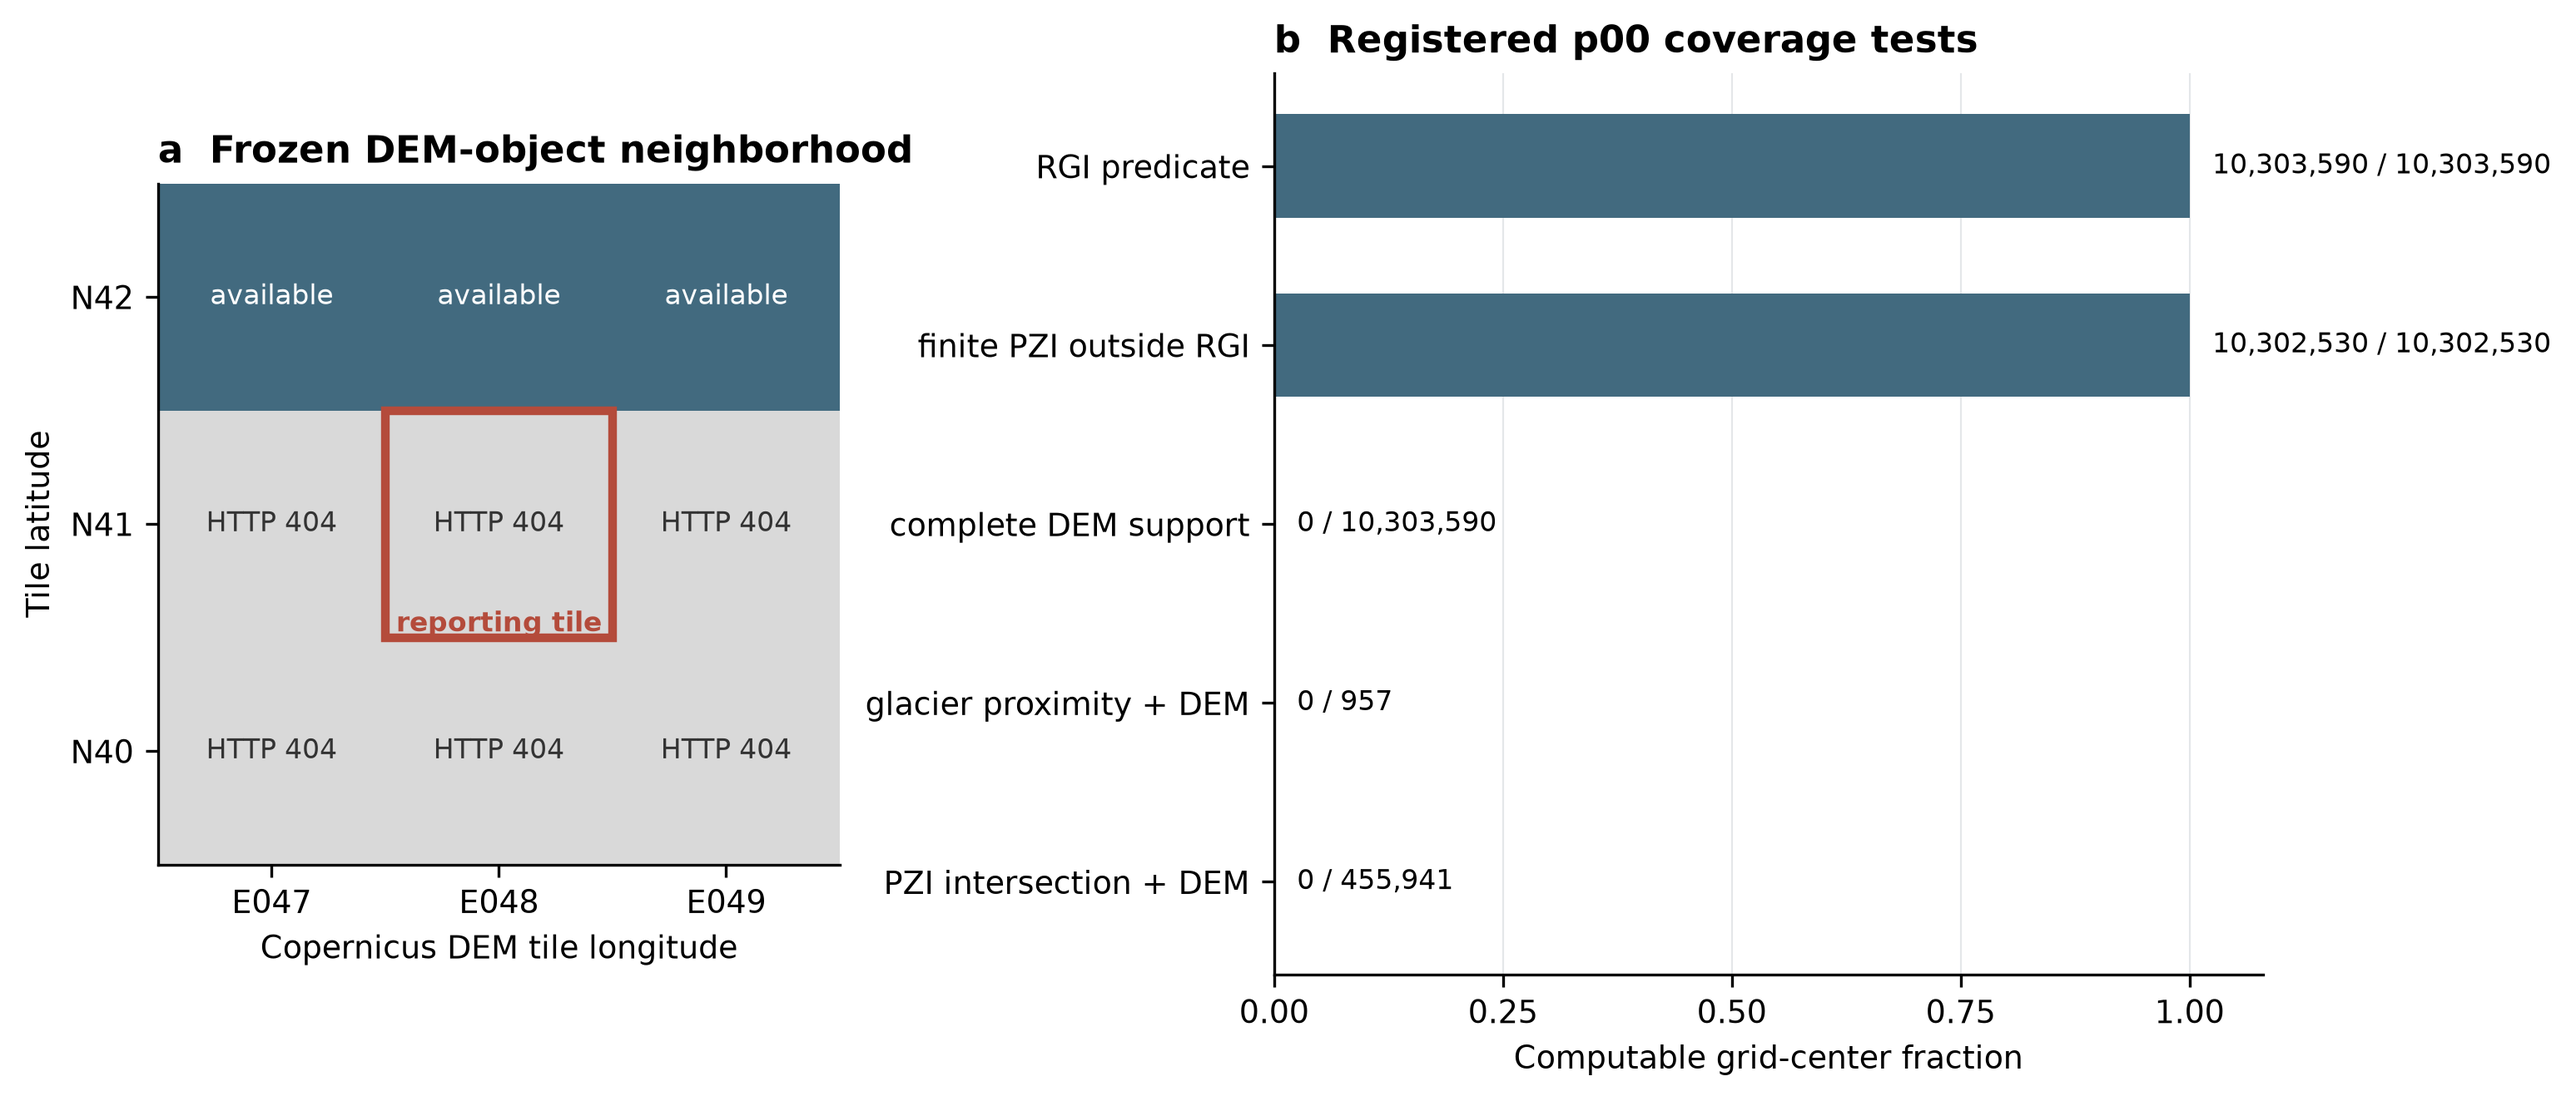
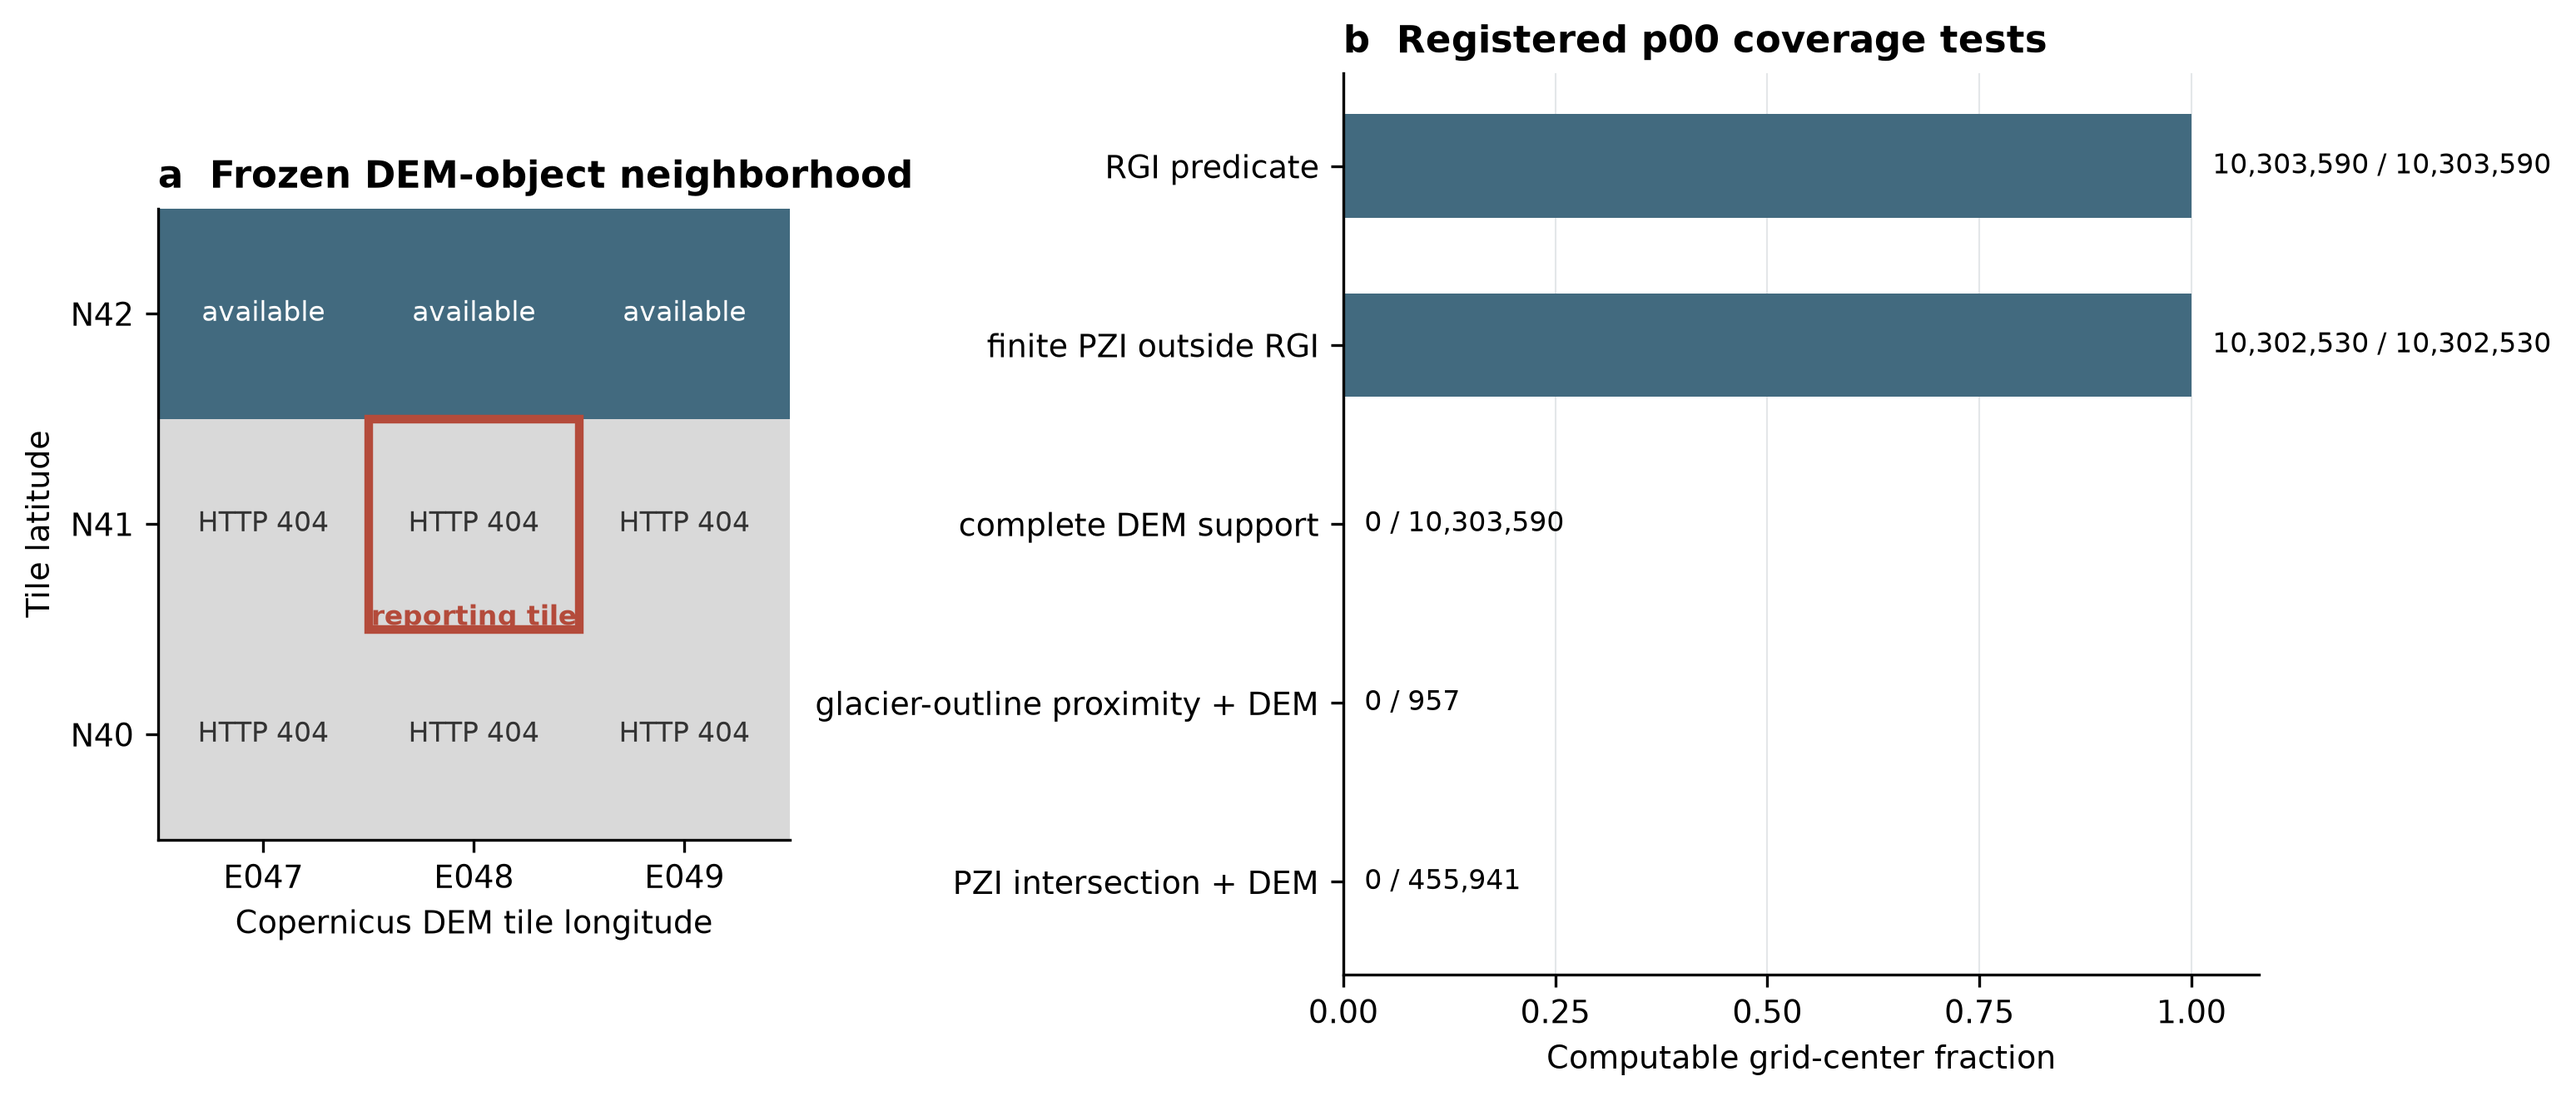
Use registered geographic mask terms

diff --git a/latex/main.tex b/latex/main.tex
@@ -704,7 +704,8 @@ or low physical susceptibility.
   available. (b) Computable grid-center fractions under the frozen predicates.
   The RGI predicate and finite PZI outside RGI have complete coverage at their
   respective denominators, whereas complete DEM support is zero. The two lower
-  rows restrict the same DEM test to glacier-proximity and PZI-mask centers.
+  rows restrict the same DEM test to glacier-outline-proximity and
+  PZI-intersection centers.
   These are source-computability fractions, not susceptible-area fractions.
   The zero DEM-support fraction triggered the registered stop; no equivalent
   area or design-based total was calculated.}
